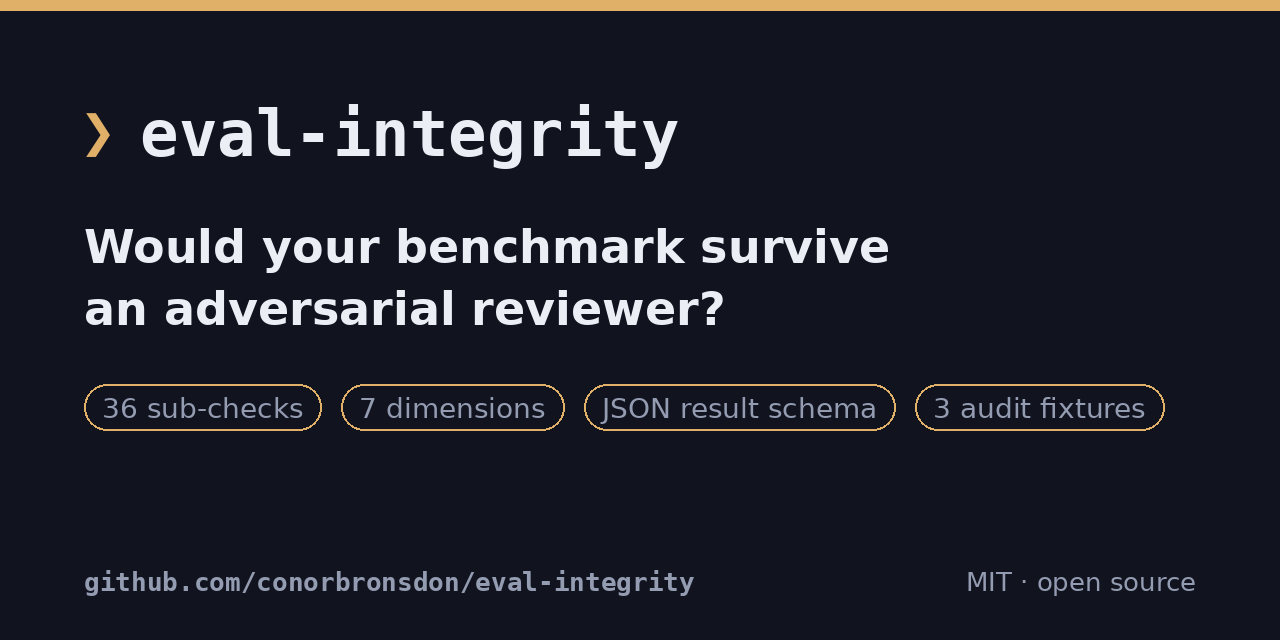
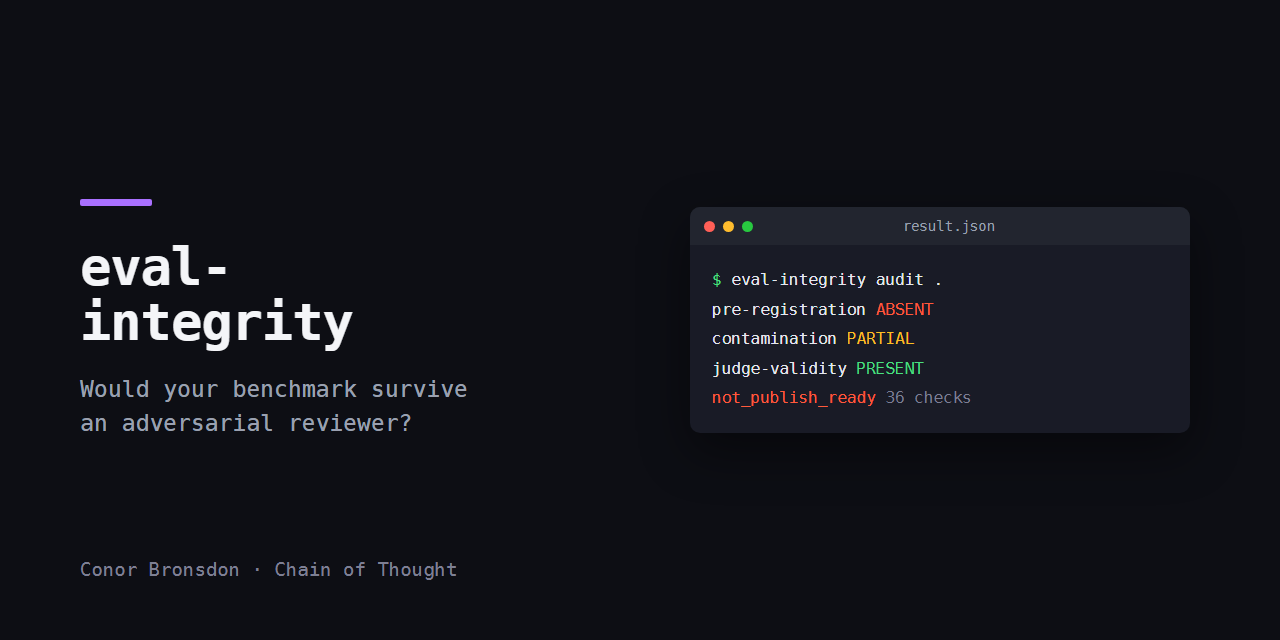
docs: add social preview card (1280x640) (#2)
Matches the house style used across the other repos: dark card, purple accent bar, DejaVu Sans Mono, terminal mock showing this tool's real output. HTML source committed so it is regenerable (headless Chrome screenshot at 1280x640). Upload is manual: Settings -> General -> Social preview (no API).

diff --git a/docs/social-preview.html b/docs/social-preview.html
@@ -1,0 +1,24 @@
+<!doctype html><html><head><meta charset="utf-8"><style>
+*{margin:0;padding:0;box-sizing:border-box}
+html,body{width:1280px;height:640px}
+body{background:#0d0e14;font-family:'DejaVu Sans Mono','JetBrains Mono',Consolas,monospace;overflow:hidden}
+.wrap{display:flex;height:100%;align-items:center}
+.left{width:600px;padding:0 0 0 80px}
+.bar{width:72px;height:7px;background:#a970ff;margin-bottom:34px;border-radius:2px}
+h1{font-size:52px;font-weight:700;color:#f4f5f8;letter-spacing:-1px;line-height:1.05}
+.tag{margin-top:22px;font-size:23px;color:#9aa0b0;line-height:1.5}
+.foot{position:absolute;left:80px;bottom:60px;font-size:19px;color:#7d7f93}
+.right{flex:1;display:flex;justify-content:center;align-items:center}
+.term{width:500px;background:#191b26;border-radius:10px;overflow:hidden;box-shadow:0 18px 50px rgba(0,0,0,.45)}
+.tb{height:38px;background:#22252f;display:flex;align-items:center;padding:0 14px;gap:8px}
+.d{width:11px;height:11px;border-radius:50%}
+.tt{flex:1;text-align:center;font-size:14px;color:#9aa0b0;margin-right:39px}
+.body{padding:20px 22px;font-size:16px;line-height:1.85}
+.g{color:#4ade80}.p{color:#a970ff}.w{color:#e6e8ef}.m{color:#7d7f93}.r{color:#ff5a3c}.y{color:#fbbf24}
+</style></head><body><div class="wrap">
+<div class="left"><div class="bar"></div><h1>eval-<br>integrity</h1><div class="tag">Would your benchmark survive<br>an adversarial reviewer?</div></div>
+<div class="right"><div class="term">
+<div class="tb"><div class="d" style="background:#ff5f57"></div><div class="d" style="background:#febc2e"></div><div class="d" style="background:#28c840"></div><div class="tt">result.json</div></div>
+<div class="body"><div><span class="g">$</span> <span class="w">eval-integrity audit .</span></div><div><span class="w">pre-registration</span> <span class="r">ABSENT</span></div><div><span class="w">contamination</span> <span class="y">PARTIAL</span></div><div><span class="w">judge-validity</span> <span class="g">PRESENT</span></div><div><span class="r">not_publish_ready</span> <span class="m">36 checks</span></div></div></div></div>
+<div class="foot">Conor Bronsdon &middot; Chain of Thought</div>
+</div></body></html>
